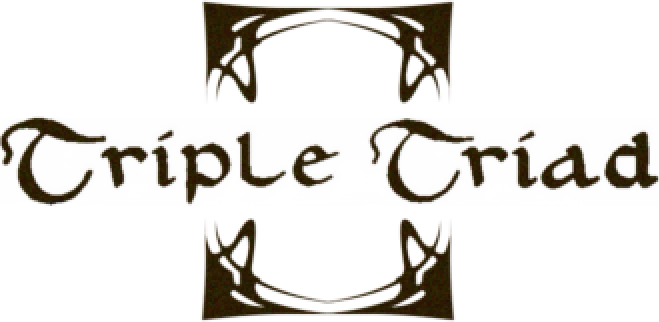
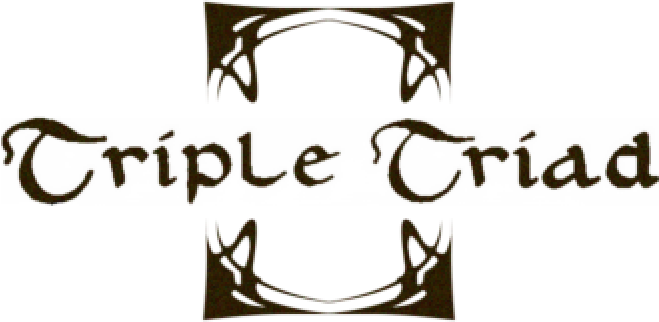
Resize center board slot image

diff --git a/src/app/components/Board/Board.module.scss b/src/app/components/Board/Board.module.scss
@@ -44,7 +44,7 @@
 
         &[data-position="1,1"]::before {
             background-image: url("/assets/slot-center.png");
-            transform: scale(2.7);
+            transform: scale(2.75);
         }
 
         &[data-position="0,0"]::before {
